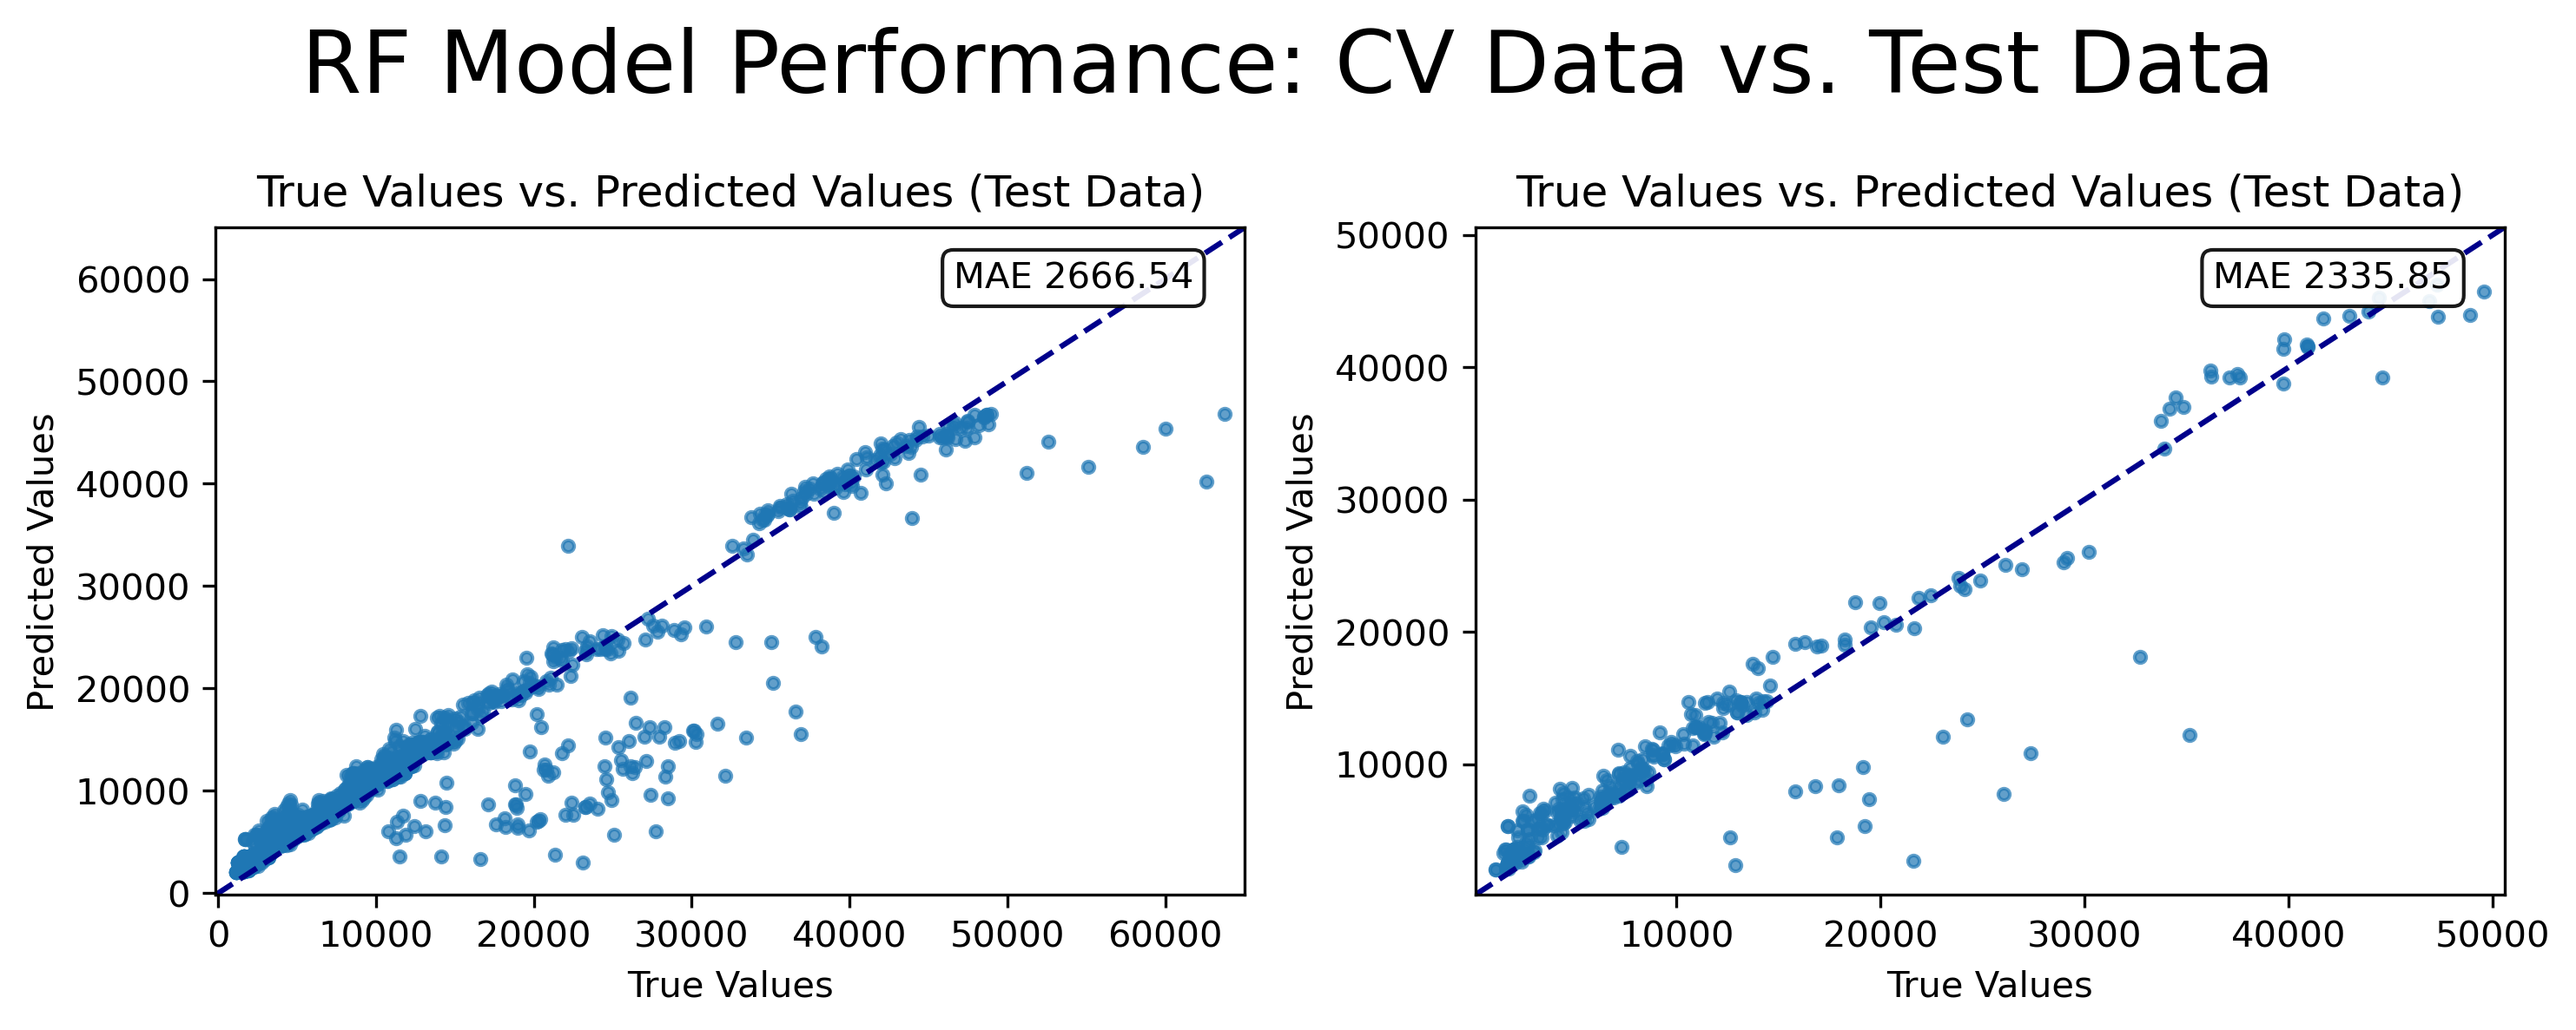
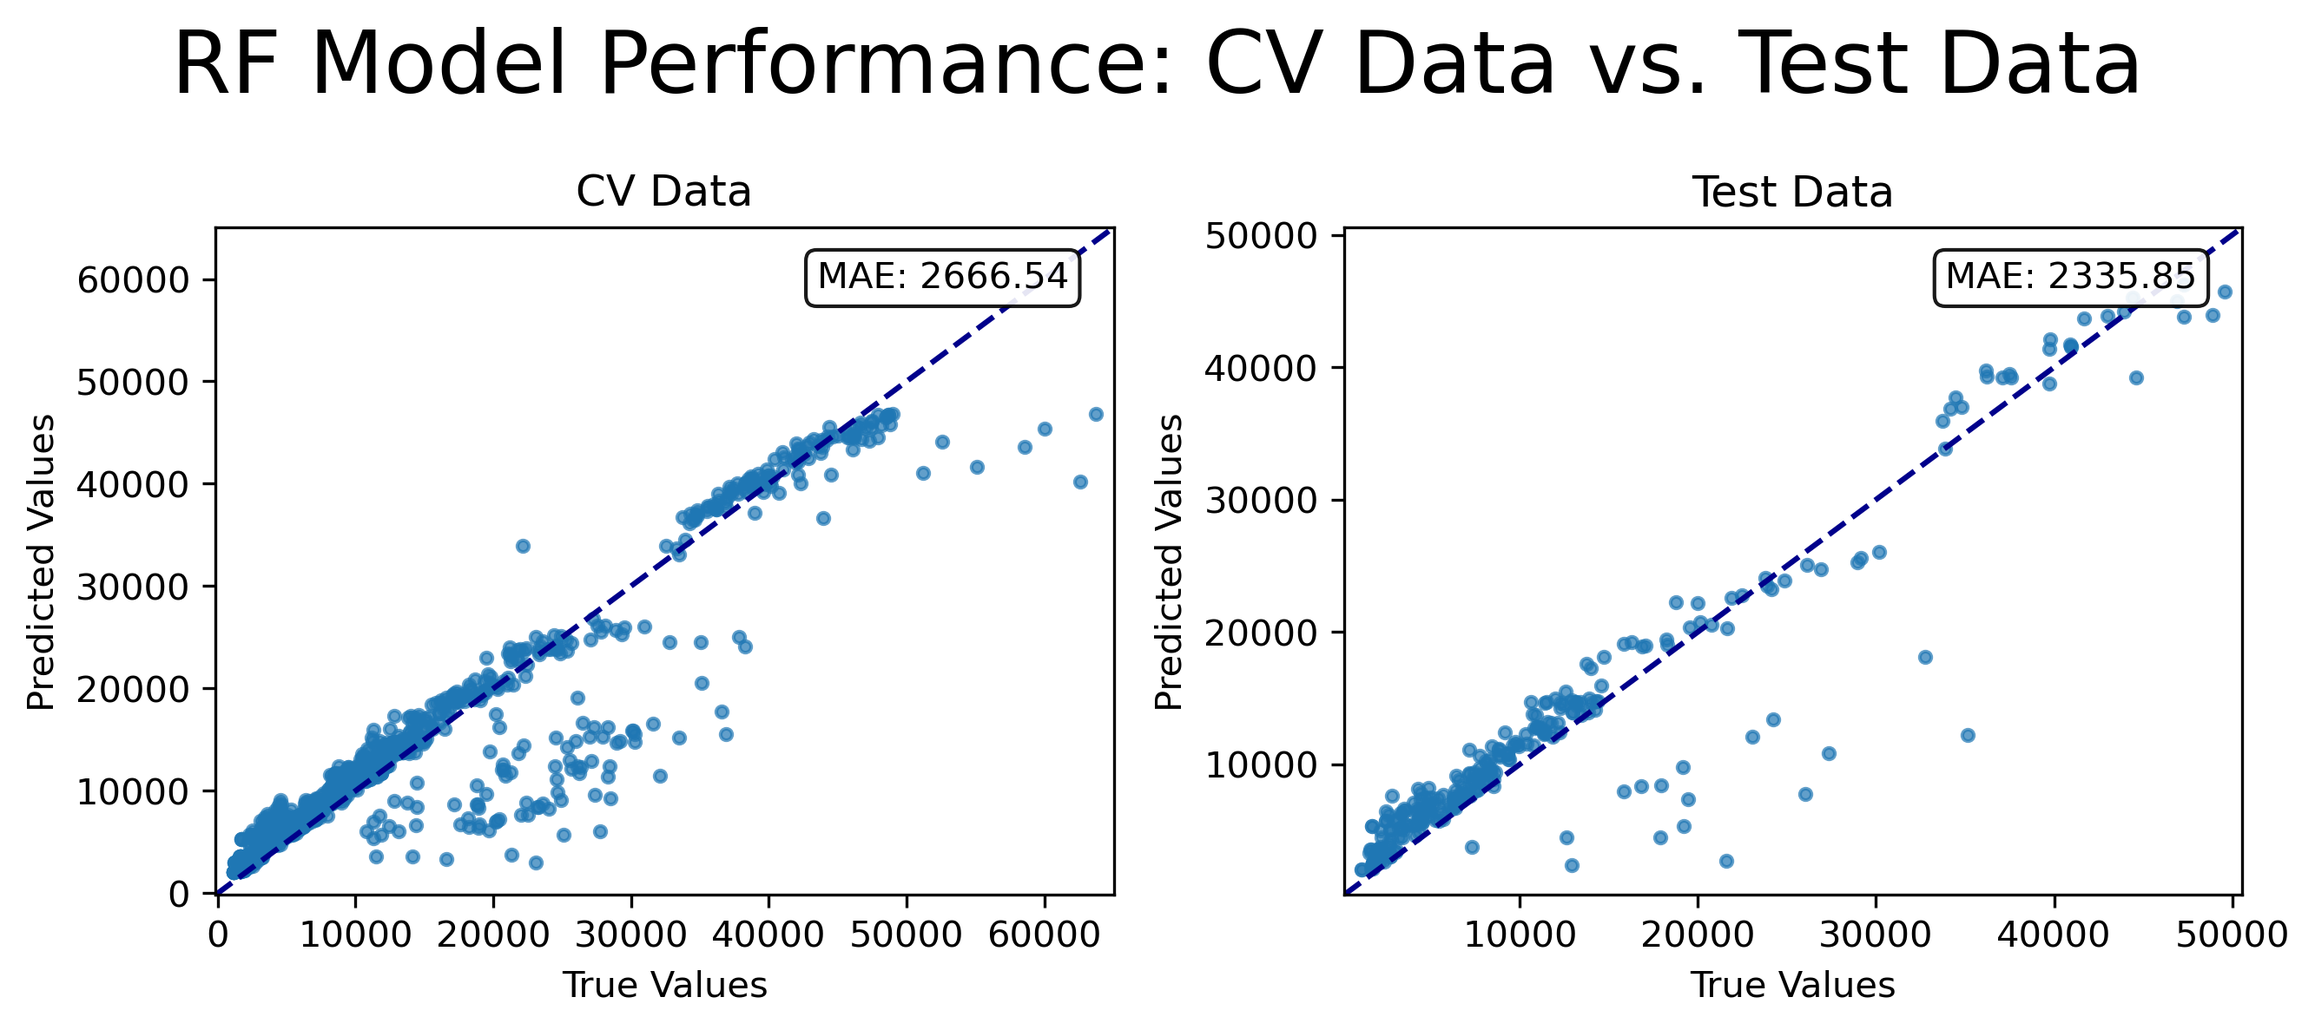
updates

diff --git a/cost_modeling_3.py b/cost_modeling_3.py
@@ -1041,7 +1041,6 @@ def plot_y_true_vs_pred(y, y_pred, title=None, ax=None, textbox_str=None, save_i
     else:
         ax.set_title('True Values vs. Predicted Values')
     
-    ax.set_title(plot_title)
     ax.set_ylabel('Predicted Values')
     ax.set_xlabel('True Values')
     
@@ -1058,7 +1057,7 @@ def plot_y_true_vs_pred_for_cv_and_test_data(estimator, X_train, X_test, y_train
                                              test_plot_text=None, fig_title=None, ax=None, save_img=False, img_filename=None, save_dir=None):
     
     # Create figure, gridspec, list of axes/subplots mapped to gridspec location
-    fig, gs, ax_array_flat = dh.initialize_fig_gs_ax(num_rows=1, num_cols=2, figsize=(10, 4))
+    fig, gs, ax_array_flat = dh.initialize_fig_gs_ax(num_rows=1, num_cols=2, figsize=(9, 4))
     
     # Plot on left is model performance on CV data
     plot_y_true_vs_pred(y_train, estimator.predict(X_train), title='CV Data', ax=ax_array_flat[0], textbox_str=cv_plot_text)
@@ -1080,29 +1079,58 @@ def plot_y_true_vs_pred_for_cv_and_test_data(estimator, X_train, X_test, y_train
     
     
 
-y_pred = rf_gs_obj.best_estimator_.predict(X_test)
-    
-plot_title = 'True Values vs. Predicted Values (Test Data)'
-plot_y_true_vs_pred(y_test, y_pred, title=plot_title)
-
 
 digits=2
-cv_mae_str = 'MAE ' + str(round(cv_results_df['rf_scores'].loc['mae'], digits))
-test_mae_str = 'MAE ' + str(round(test_results_df['rf_scores'].loc['mae'], digits))
 
-model_abbrev = 'RF'
+
+model_abbrev = 'LR'
+lr_pipeline.fit(X_train, y_train)
+cv_mae_str = 'MAE: ' + str(round(cv_results_df['lr_scores'].loc['mae'], digits))
+test_mae_str = 'MAE: ' + str(round(test_results_df['lr_scores'].loc['mae'], digits))
 filename = 'performance_' + model_abbrev
-plot_y_true_vs_pred_for_cv_and_test_data(rf_gs_obj.best_estimator_, X_train, X_test, y_train, y_test, 
+plot_y_true_vs_pred_for_cv_and_test_data(lr_pipeline, X_train, X_test, y_train, y_test, 
                                          model_abbrev, cv_plot_text=cv_mae_str, test_plot_text=test_mae_str,
                                          save_img=True, img_filename=filename, save_dir=ml_models_output_dir)
 
+model_abbrev = 'RR'
+gs_obj = rr_gs_obj
+cv_mae_str = 'MAE: ' + str(round(cv_results_df['rr_scores'].loc['mae'], digits))
+test_mae_str = 'MAE: ' + str(round(test_results_df['rr_scores'].loc['mae'], digits))
+filename = 'performance_' + model_abbrev
+plot_y_true_vs_pred_for_cv_and_test_data(gs_obj.best_estimator_, X_train, X_test, y_train, y_test, 
+                                         model_abbrev, cv_plot_text=cv_mae_str, test_plot_text=test_mae_str,
+                                         save_img=True, img_filename=filename, save_dir=ml_models_output_dir)
 
+model_abbrev = 'LSR'
+gs_obj = rf_gs_obj
+cv_mae_str = 'MAE: ' + str(round(cv_results_df['lsr_scores'].loc['mae'], digits))
+test_mae_str = 'MAE: ' + str(round(test_results_df['lsr_scores'].loc['mae'], digits))
+filename = 'performance_' + model_abbrev
+plot_y_true_vs_pred_for_cv_and_test_data(gs_obj.best_estimator_, X_train, X_test, y_train, y_test, 
+                                         model_abbrev, cv_plot_text=cv_mae_str, test_plot_text=test_mae_str,
+                                         save_img=True, img_filename=filename, save_dir=ml_models_output_dir)
 
+model_abbrev = 'RF'
+gs_obj = rf_gs_obj
 
+cv_mae_str = 'MAE: ' + str(round(cv_results_df['rf_scores'].loc['mae'], digits))
+test_mae_str = 'MAE: ' + str(round(test_results_df['rf_scores'].loc['mae'], digits))
 
+filename = 'performance_' + model_abbrev
+plot_y_true_vs_pred_for_cv_and_test_data(gs_obj.best_estimator_, X_train, X_test, y_train, y_test, 
+                                         model_abbrev, cv_plot_text=cv_mae_str, test_plot_text=test_mae_str,
+                                         save_img=True, img_filename=filename, save_dir=ml_models_output_dir)
 
+model_abbrev = 'RF'
+gs_obj = rf_gs_obj
 
+cv_mae_str = 'MAE: ' + str(round(cv_results_df['rf_scores'].loc['mae'], digits))
+test_mae_str = 'MAE: ' + str(round(test_results_df['rf_scores'].loc['mae'], digits))
 
+filename = 'performance_' + model_abbrev
+plot_y_true_vs_pred_for_cv_and_test_data(gs_obj.best_estimator_, X_train, X_test, y_train, y_test, 
+                                         model_abbrev, cv_plot_text=cv_mae_str, test_plot_text=test_mae_str,
+                                         save_img=True, img_filename=filename, save_dir=ml_models_output_dir)
 
 
 
